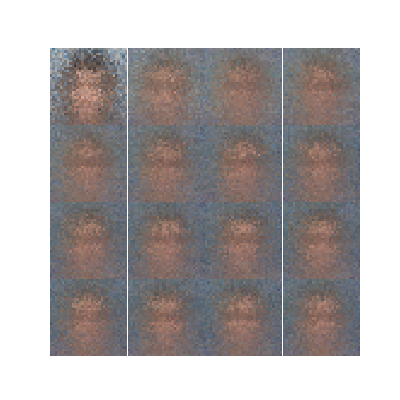
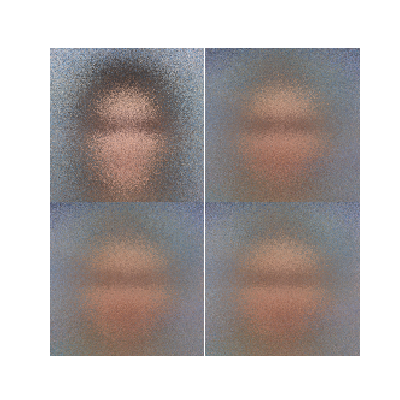
Updating images, and improving code

diff --git a/high_order_implicit_representation/utils.py b/high_order_implicit_representation/utils.py
@@ -22,6 +22,7 @@ def generate_sample(
     device: str = "cpu",
     rotations: int = 2,
     batch_size: int = 256,
+    all_random: bool = True,
 ) -> List[Tensor]:
     """
     Create a sample either generated on top of a starting image
@@ -64,6 +65,9 @@ def generate_sample(
     result_list = []
     for count in range(iterations):
         logger.info(f"Generating for count {count}")
+
+        if all_random is True:
+            image = torch.rand([3, image_size, image_size]) * 2 - 1
 
         full_features = torch.cat([image, new_vals])
         channels, h, w = full_features.shape

diff --git a/examples/random_interpolation.py b/examples/random_interpolation.py
@@ -100,6 +100,7 @@ def run_implicit_images(cfg: DictConfig):
             rotations=cfg.rotations,
             image_size=cfg.image_size,
             iterations=cfg.iterations,
+            all_random=cfg.all_random,
         )
 
         image_samples = [image.permute(1, 2, 0) for image in image_samples]

diff --git a/README.md b/README.md
@@ -63,6 +63,6 @@ and run evaluation
 ```
 python examples/random_interpolation.py train=false checkpoint=\"outputs/2022-06-21/08-39-19/lightning_logs/version_0/checkpoints/epoch=49-step=19800.ckpt\"
 ```
-Example generated image from celeba dataset.  This is a WIP as I try and figure out the right parameters to get this working.
+Example generated image from celeba dataset.  This is a WIP as I try and figure out the right parameters to get this working - currently suffering some mode collapse.
 
 ![Random interpolations for image generation](results/random_interpolation.png)
